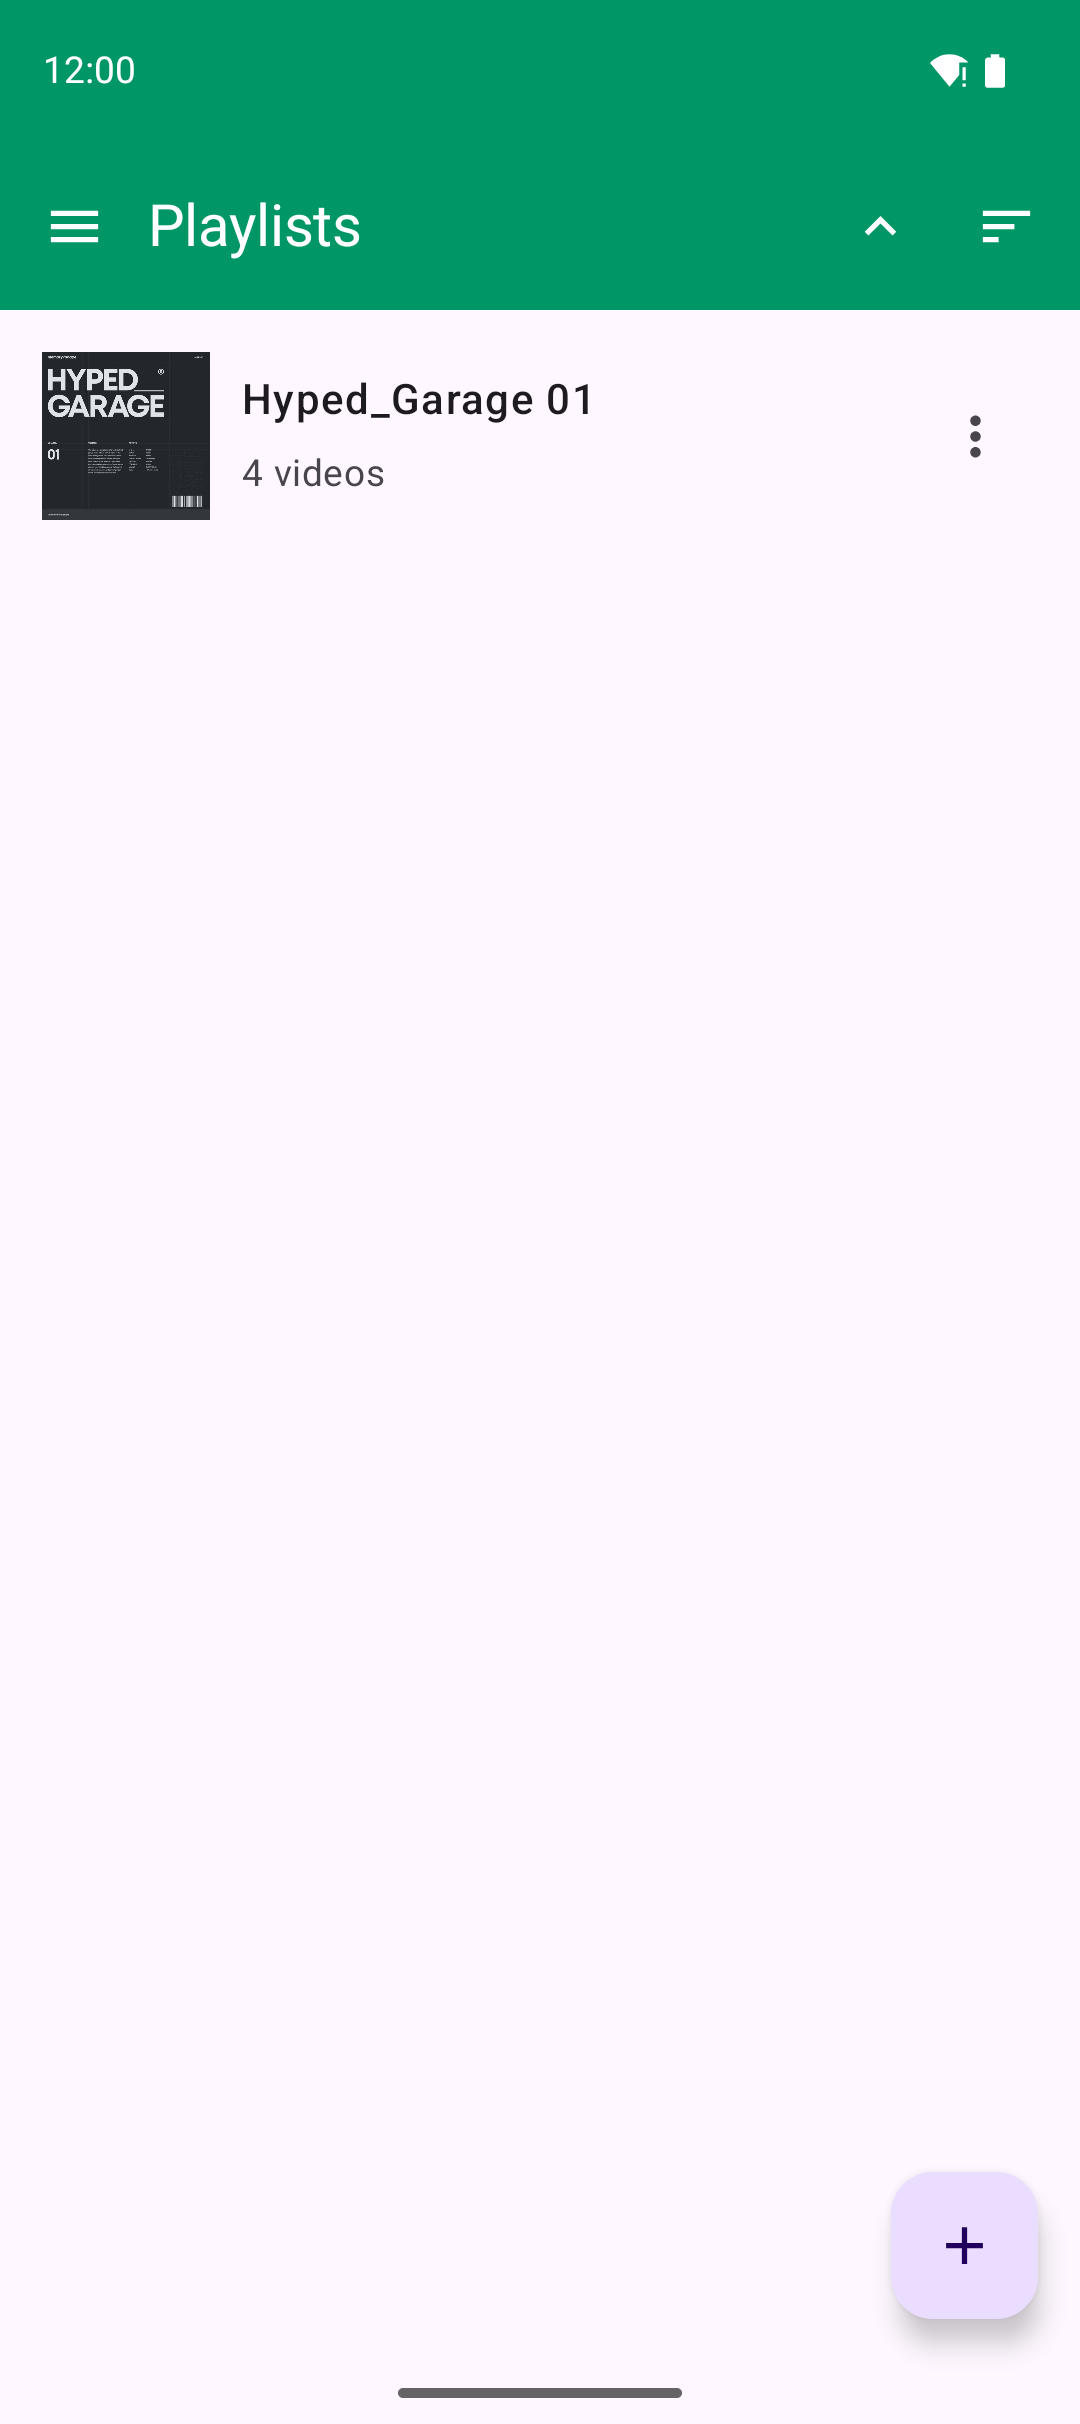
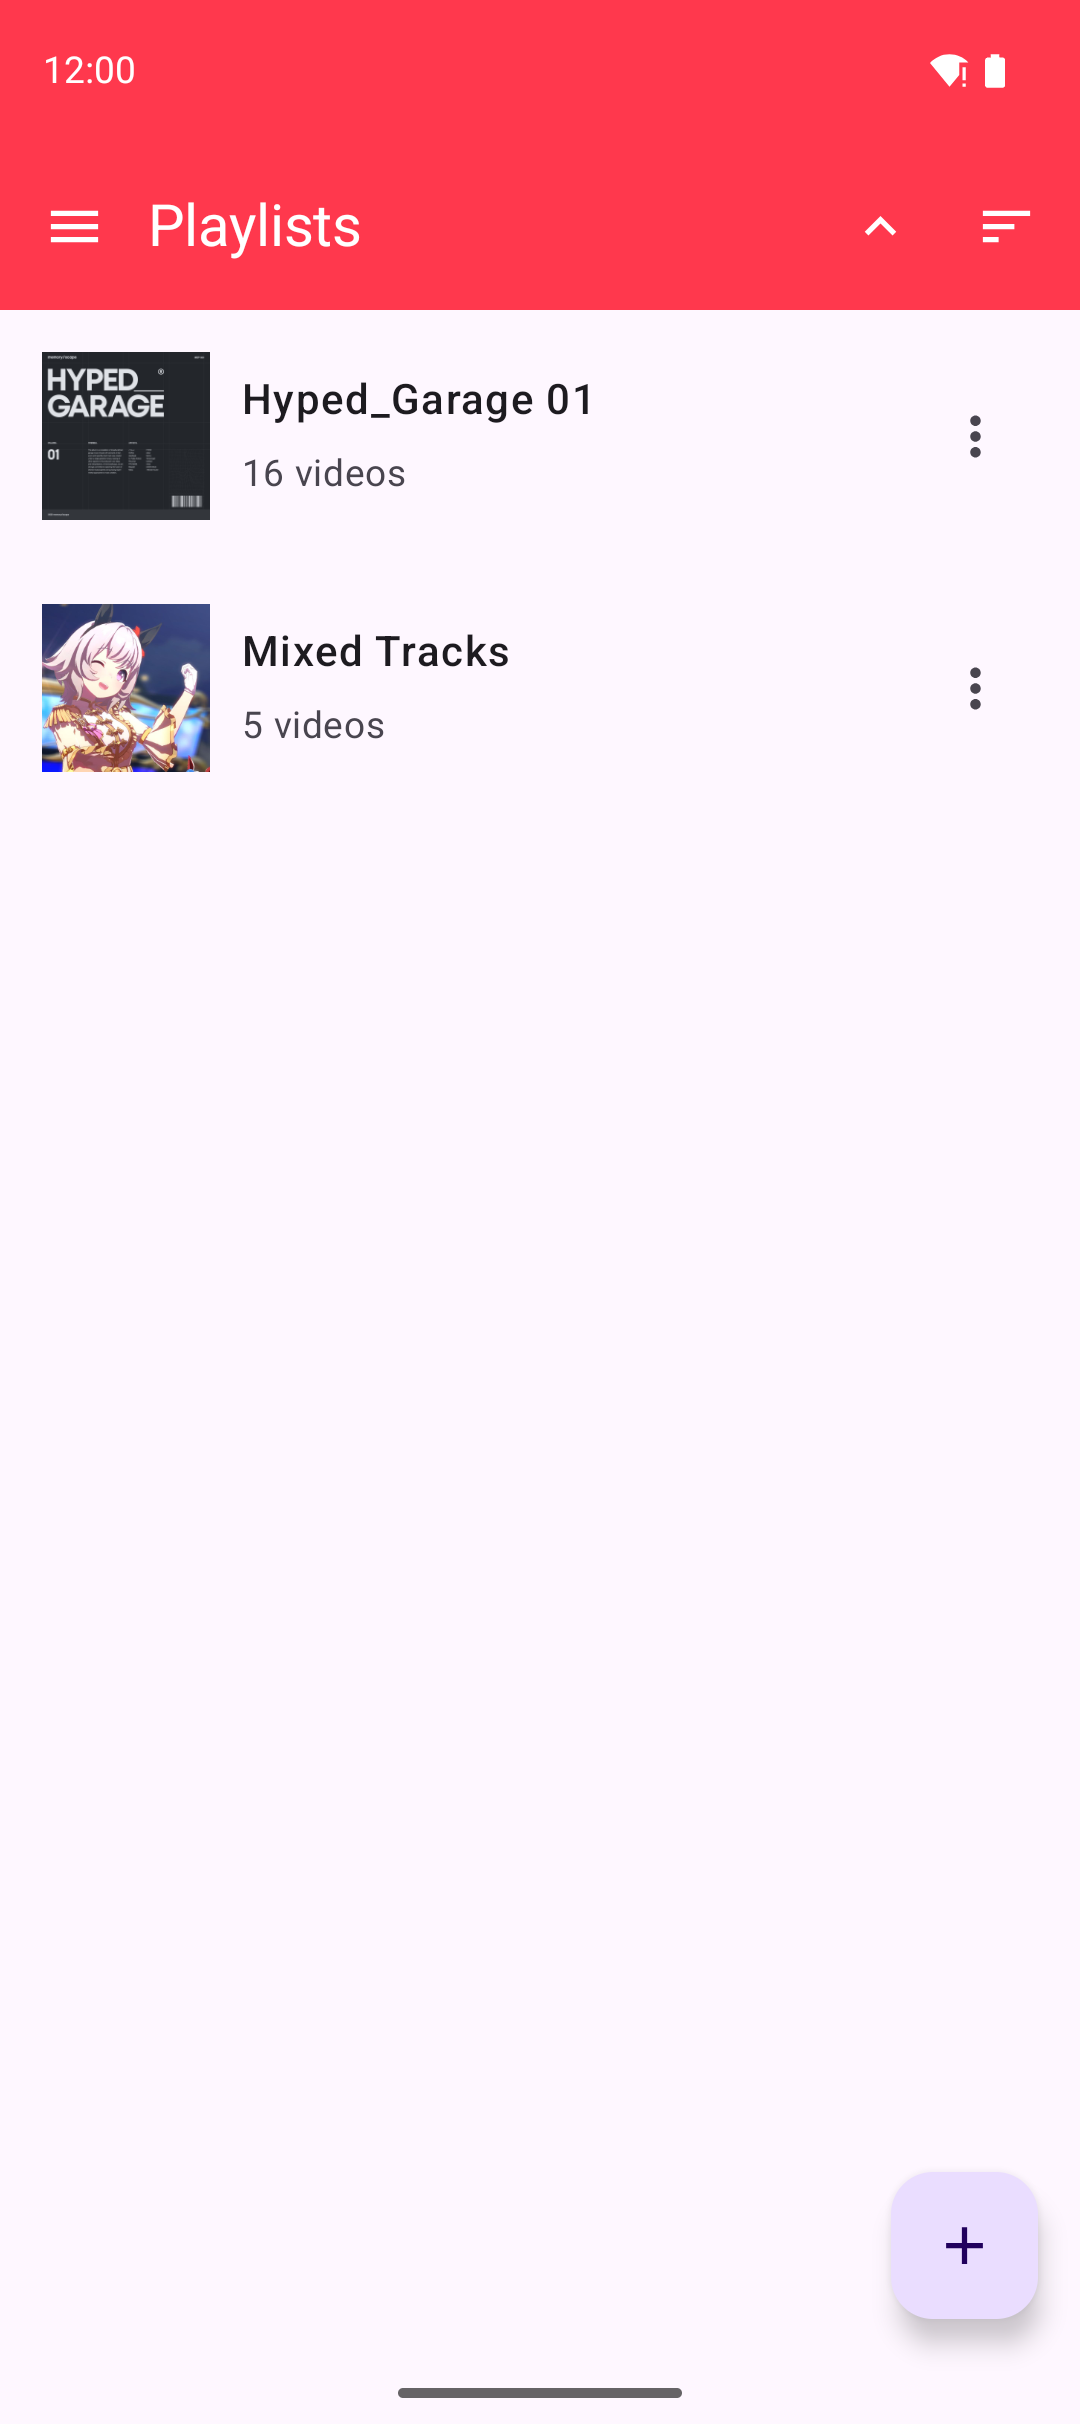
chore: Update screenshots

Changed region(s): [[0.0, 0.0, 1.0, 0.1856], [0.0306, 0.2475, 0.4583, 0.3403], [0.2139, 0.1856, 0.3361, 0.2166]]

diff --git a/fastlane/metadata/android/screenshots.html b/fastlane/metadata/android/screenshots.html
@@ -69,7 +69,7 @@
     <hr>
     <table>
       <tr>
-        <th colspan="9">
+        <th colspan="10">
           <a id="en-US-phoneScreenshots" class="deviceName" href="#en-US-phoneScreenshots">phoneScreenshots</a>
         </th>
       </tr>
@@ -95,28 +95,33 @@
           </a>
         </td>
         <td>
+          <a href="./en-US/images/phoneScreenshots/04-videos-playlist.png" target="_blank" class="screenshotLink">
+            <img class="screenshot" src="./en-US/images/phoneScreenshots/04-videos-playlist.png" style="width: 100%;" alt="en-US phoneScreenshots" data-counter="5">
+          </a>
+        </td>
+        <td>
           <a href="./en-US/images/phoneScreenshots/05-allvideos.png" target="_blank" class="screenshotLink">
-            <img class="screenshot" src="./en-US/images/phoneScreenshots/05-allvideos.png" style="width: 100%;" alt="en-US phoneScreenshots" data-counter="5">
+            <img class="screenshot" src="./en-US/images/phoneScreenshots/05-allvideos.png" style="width: 100%;" alt="en-US phoneScreenshots" data-counter="6">
           </a>
         </td>
         <td>
           <a href="./en-US/images/phoneScreenshots/06-alarmSettings.png" target="_blank" class="screenshotLink">
-            <img class="screenshot" src="./en-US/images/phoneScreenshots/06-alarmSettings.png" style="width: 100%;" alt="en-US phoneScreenshots" data-counter="6">
+            <img class="screenshot" src="./en-US/images/phoneScreenshots/06-alarmSettings.png" style="width: 100%;" alt="en-US phoneScreenshots" data-counter="7">
           </a>
         </td>
         <td>
           <a href="./en-US/images/phoneScreenshots/07-drawer.png" target="_blank" class="screenshotLink">
-            <img class="screenshot" src="./en-US/images/phoneScreenshots/07-drawer.png" style="width: 100%;" alt="en-US phoneScreenshots" data-counter="7">
+            <img class="screenshot" src="./en-US/images/phoneScreenshots/07-drawer.png" style="width: 100%;" alt="en-US phoneScreenshots" data-counter="8">
           </a>
         </td>
         <td>
           <a href="./en-US/images/phoneScreenshots/08-videoplayer.png" target="_blank" class="screenshotLink">
-            <img class="screenshot" src="./en-US/images/phoneScreenshots/08-videoplayer.png" style="width: 100%;" alt="en-US phoneScreenshots" data-counter="8">
+            <img class="screenshot" src="./en-US/images/phoneScreenshots/08-videoplayer.png" style="width: 100%;" alt="en-US phoneScreenshots" data-counter="9">
           </a>
         </td>
         <td>
           <a href="./en-US/images/phoneScreenshots/09-aboutpage.png" target="_blank" class="screenshotLink">
-            <img class="screenshot" src="./en-US/images/phoneScreenshots/09-aboutpage.png" style="width: 100%;" alt="en-US phoneScreenshots" data-counter="9">
+            <img class="screenshot" src="./en-US/images/phoneScreenshots/09-aboutpage.png" style="width: 100%;" alt="en-US phoneScreenshots" data-counter="10">
           </a>
         </td>
       </tr>
@@ -125,54 +130,59 @@
     <hr>
     <table>
       <tr>
-        <th colspan="9">
+        <th colspan="10">
           <a id="ja-phoneScreenshots" class="deviceName" href="#ja-phoneScreenshots">phoneScreenshots</a>
         </th>
       </tr>
       <tr>
         <td>
           <a href="./ja/images/phoneScreenshots/00-alarm.png" target="_blank" class="screenshotLink">
-            <img class="screenshot" src="./ja/images/phoneScreenshots/00-alarm.png" style="width: 100%;" alt="ja phoneScreenshots" data-counter="10">
+            <img class="screenshot" src="./ja/images/phoneScreenshots/00-alarm.png" style="width: 100%;" alt="ja phoneScreenshots" data-counter="11">
           </a>
         </td>
         <td>
           <a href="./ja/images/phoneScreenshots/01-alarms.png" target="_blank" class="screenshotLink">
-            <img class="screenshot" src="./ja/images/phoneScreenshots/01-alarms.png" style="width: 100%;" alt="ja phoneScreenshots" data-counter="11">
+            <img class="screenshot" src="./ja/images/phoneScreenshots/01-alarms.png" style="width: 100%;" alt="ja phoneScreenshots" data-counter="12">
           </a>
         </td>
         <td>
           <a href="./ja/images/phoneScreenshots/02-playlist.png" target="_blank" class="screenshotLink">
-            <img class="screenshot" src="./ja/images/phoneScreenshots/02-playlist.png" style="width: 100%;" alt="ja phoneScreenshots" data-counter="12">
+            <img class="screenshot" src="./ja/images/phoneScreenshots/02-playlist.png" style="width: 100%;" alt="ja phoneScreenshots" data-counter="13">
           </a>
         </td>
         <td>
           <a href="./ja/images/phoneScreenshots/03-videos-origin.png" target="_blank" class="screenshotLink">
-            <img class="screenshot" src="./ja/images/phoneScreenshots/03-videos-origin.png" style="width: 100%;" alt="ja phoneScreenshots" data-counter="13">
+            <img class="screenshot" src="./ja/images/phoneScreenshots/03-videos-origin.png" style="width: 100%;" alt="ja phoneScreenshots" data-counter="14">
+          </a>
+        </td>
+        <td>
+          <a href="./ja/images/phoneScreenshots/04-videos-playlist.png" target="_blank" class="screenshotLink">
+            <img class="screenshot" src="./ja/images/phoneScreenshots/04-videos-playlist.png" style="width: 100%;" alt="ja phoneScreenshots" data-counter="15">
           </a>
         </td>
         <td>
           <a href="./ja/images/phoneScreenshots/05-allvideos.png" target="_blank" class="screenshotLink">
-            <img class="screenshot" src="./ja/images/phoneScreenshots/05-allvideos.png" style="width: 100%;" alt="ja phoneScreenshots" data-counter="14">
+            <img class="screenshot" src="./ja/images/phoneScreenshots/05-allvideos.png" style="width: 100%;" alt="ja phoneScreenshots" data-counter="16">
           </a>
         </td>
         <td>
           <a href="./ja/images/phoneScreenshots/06-alarmSettings.png" target="_blank" class="screenshotLink">
-            <img class="screenshot" src="./ja/images/phoneScreenshots/06-alarmSettings.png" style="width: 100%;" alt="ja phoneScreenshots" data-counter="15">
+            <img class="screenshot" src="./ja/images/phoneScreenshots/06-alarmSettings.png" style="width: 100%;" alt="ja phoneScreenshots" data-counter="17">
           </a>
         </td>
         <td>
           <a href="./ja/images/phoneScreenshots/07-drawer.png" target="_blank" class="screenshotLink">
-            <img class="screenshot" src="./ja/images/phoneScreenshots/07-drawer.png" style="width: 100%;" alt="ja phoneScreenshots" data-counter="16">
+            <img class="screenshot" src="./ja/images/phoneScreenshots/07-drawer.png" style="width: 100%;" alt="ja phoneScreenshots" data-counter="18">
           </a>
         </td>
         <td>
           <a href="./ja/images/phoneScreenshots/08-videoplayer.png" target="_blank" class="screenshotLink">
-            <img class="screenshot" src="./ja/images/phoneScreenshots/08-videoplayer.png" style="width: 100%;" alt="ja phoneScreenshots" data-counter="17">
+            <img class="screenshot" src="./ja/images/phoneScreenshots/08-videoplayer.png" style="width: 100%;" alt="ja phoneScreenshots" data-counter="19">
           </a>
         </td>
         <td>
           <a href="./ja/images/phoneScreenshots/09-aboutpage.png" target="_blank" class="screenshotLink">
-            <img class="screenshot" src="./ja/images/phoneScreenshots/09-aboutpage.png" style="width: 100%;" alt="ja phoneScreenshots" data-counter="18">
+            <img class="screenshot" src="./ja/images/phoneScreenshots/09-aboutpage.png" style="width: 100%;" alt="ja phoneScreenshots" data-counter="20">
           </a>
         </td>
       </tr>

diff --git a/app/src/androidTest/kotlin/net/turtton/ytalarm/util/TestDataHelper.kt b/app/src/androidTest/kotlin/net/turtton/ytalarm/util/TestDataHelper.kt
@@ -20,6 +20,13 @@ object TestDataHelper {
     // Mixed Tracks: SoundCloud/YouTube からの混合プレイリスト（4トラック）
     private val MIXED_TRACKS = listOf(
         TrackInfo(
+            videoId = "1789054948",
+            title = "dancinwithsomebawdy",
+            thumbnailUrl = "https://i1.sndcdn.com/artworks-5qgAgVY4upyMy8uY-NYXH5w-original.jpg",
+            videoUrl = "https://soundcloud.com/lookatcurren/dancinwithsomebawdy",
+            domain = "soundcloud.com"
+        ),
+        TrackInfo(
             videoId = "2231400578",
             title = "B4LLooN -  ",
             thumbnailUrl = "https://i1.sndcdn.com/artworks-idsxjqvK6cjedLNx-pad9OA-original.png",
